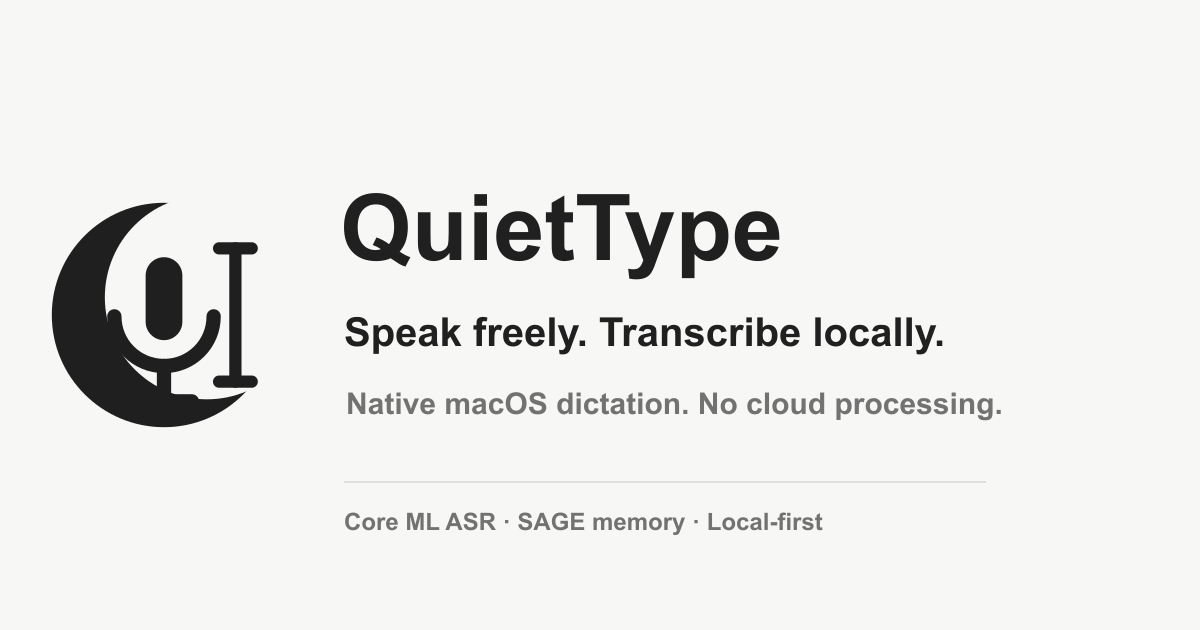
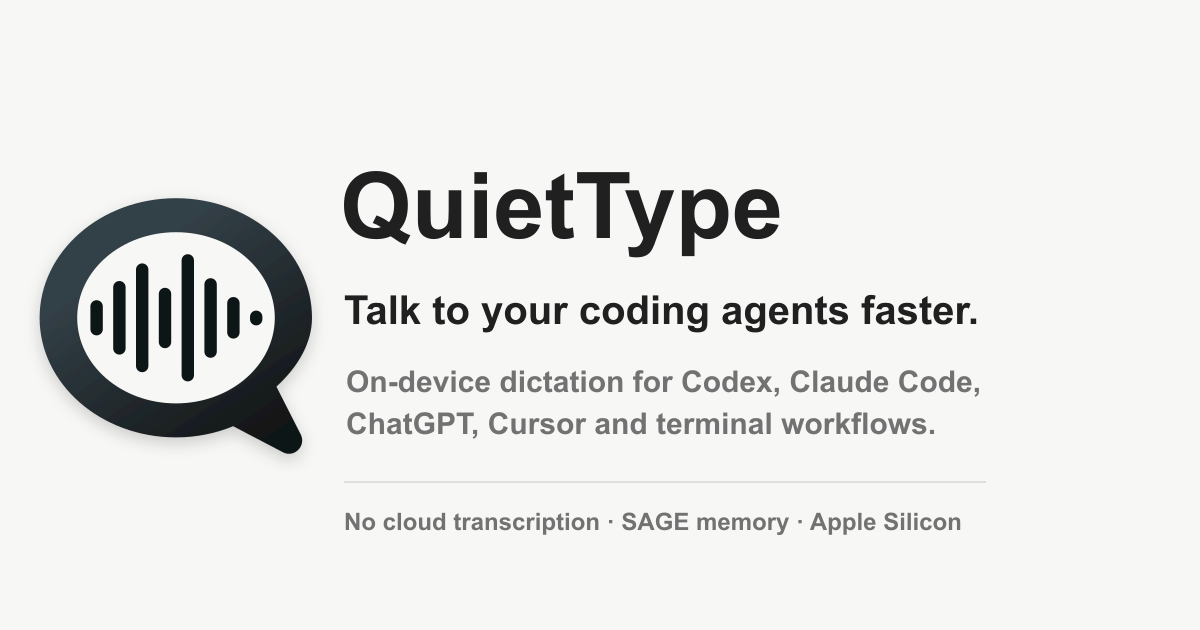
Polish hero rotation and launch assets

Changed region(s): [[0.0308, 0.2714, 0.8325, 0.7238], [0.2775, 0.8143, 0.8017, 0.8444]]

diff --git a/Sources/LocalTypeMac/LocalTypeMacApp.swift b/Sources/LocalTypeMac/LocalTypeMacApp.swift
@@ -331,9 +331,10 @@ struct TesterView: View {
     @State private var showingTeachSheet = false
     @State private var showingRecognizedTerms = false
     @State private var guideStep: QuietTypeGuideStep?
-    @State private var launchHeroMessage = QuietTypeHeroMessage.random()
-    @State private var showLaunchHero = true
+    @State private var launchHeroMessageIndex = QuietTypeHeroMessage.randomIndex()
+    @State private var launchHeroTextVisible = true
     private let permissionTimer = Timer.publish(every: 2, on: .main, in: .common).autoconnect()
+    private let heroMessageTimer = Timer.publish(every: 90, on: .main, in: .common).autoconnect()
 
     var body: some View {
         Group {
@@ -376,7 +377,6 @@ struct TesterView: View {
             if model.setupComplete && firstRunAssistantComplete && !hasSeenGuide {
                 guideStep = .welcome
             }
-            scheduleLaunchHeroDismissal()
         }
         .onChange(of: model.setupComplete) { isComplete in
             if isComplete {
@@ -388,6 +388,9 @@ struct TesterView: View {
                 model.refreshSystemMetrics()
                 await model.refreshPermissions()
             }
+        }
+        .onReceive(heroMessageTimer) { _ in
+            rotateLaunchHeroMessage()
         }
         .onReceive(NotificationCenter.default.publisher(for: NSApplication.didBecomeActiveNotification)) { _ in
             Task {
@@ -404,13 +407,21 @@ struct TesterView: View {
         }
     }
 
-    private func scheduleLaunchHeroDismissal() {
-        guard showLaunchHero else {
+    private var launchHeroMessage: QuietTypeHeroMessage {
+        QuietTypeHeroMessage.message(at: launchHeroMessageIndex)
+    }
+
+    private func rotateLaunchHeroMessage() {
+        guard QuietTypeHeroMessage.all.count > 1 else {
             return
         }
-        DispatchQueue.main.asyncAfter(deadline: .now() + 30) {
-            withAnimation(.easeInOut(duration: 0.65)) {
-                showLaunchHero = false
+        withAnimation(.easeInOut(duration: 0.42)) {
+            launchHeroTextVisible = false
+        }
+        DispatchQueue.main.asyncAfter(deadline: .now() + 0.46) {
+            launchHeroMessageIndex = QuietTypeHeroMessage.nextIndex(after: launchHeroMessageIndex)
+            withAnimation(.easeInOut(duration: 0.48)) {
+                launchHeroTextVisible = true
             }
         }
     }
@@ -900,8 +911,6 @@ struct TesterView: View {
         nativePage {
             VStack(alignment: .leading, spacing: 20) {
                 header
-                    .opacity(showLaunchHero ? 1 : 0)
-                    .accessibilityHidden(!showLaunchHero)
                 if !model.setupComplete {
                     setupNudgePanel
                 }
@@ -1551,10 +1560,15 @@ struct TesterView: View {
             VStack(alignment: .leading, spacing: 4) {
                 Text(launchHeroMessage.title)
                     .font(.system(size: 40, weight: .bold))
+                    .lineLimit(2)
+                    .minimumScaleFactor(0.82)
                 Text(launchHeroMessage.subtitle)
                     .font(.system(size: 20, weight: .medium))
                     .foregroundStyle(.secondary)
             }
+            .id(launchHeroMessage.id)
+            .opacity(launchHeroTextVisible ? 1 : 0)
+            .animation(.easeInOut(duration: 0.48), value: launchHeroTextVisible)
             Spacer()
             VStack(alignment: .trailing, spacing: 8) {
                 HStack(spacing: 6) {
@@ -2608,7 +2622,8 @@ private enum QuietTypeSection: String, CaseIterable, Identifiable {
     }
 }
 
-private struct QuietTypeHeroMessage {
+private struct QuietTypeHeroMessage: Identifiable {
+    var id: String { title }
     var title: String
     var subtitle: String
 
@@ -2636,11 +2651,48 @@ private struct QuietTypeHeroMessage {
         QuietTypeHeroMessage(
             title: "Voice input for secure work.",
             subtitle: "Transcribe, polish, and insert without cloud dictation."
+        ),
+        QuietTypeHeroMessage(
+            title: "Think out loud. Keep it local.",
+            subtitle: "Long agent prompts become clean text on your Mac."
+        ),
+        QuietTypeHeroMessage(
+            title: "More context. Less typing.",
+            subtitle: "Give Codex and Claude the full brief without uploading speech."
+        ),
+        QuietTypeHeroMessage(
+            title: "Your prompt, not their server.",
+            subtitle: "Local transcription for source paths, bugs, names, and plans."
+        ),
+        QuietTypeHeroMessage(
+            title: "Talk like a person. Paste like a pro.",
+            subtitle: "QuietType turns messy speech into usable instructions."
+        ),
+        QuietTypeHeroMessage(
+            title: "Private words for real work.",
+            subtitle: "Built for terminals, editors, agents, notes, and Slack."
         )
     ]
 
-    static func random() -> QuietTypeHeroMessage {
-        all.randomElement() ?? all[0]
+    static func message(at index: Int) -> QuietTypeHeroMessage {
+        guard !all.isEmpty else {
+            return QuietTypeHeroMessage(title: "Speak freely. Transcribe locally.", subtitle: "Nothing leaves your Mac.")
+        }
+        return all[index % all.count]
+    }
+
+    static func randomIndex() -> Int {
+        guard !all.isEmpty else {
+            return 0
+        }
+        return Int.random(in: 0..<all.count)
+    }
+
+    static func nextIndex(after index: Int) -> Int {
+        guard !all.isEmpty else {
+            return 0
+        }
+        return (index + 1) % all.count
     }
 }
 

diff --git a/docs/index.html b/docs/index.html
@@ -10,9 +10,12 @@
   <meta property="og:url" content="https://l33tdawg.github.io/quiettype/">
   <meta property="og:title" content="QuietType - Native macOS dictation for agents.">
   <meta property="og:description" content="Fast on-device transcription for Codex, Claude Code, ChatGPT, terminals, editors and docs. No cloud processing. SAGE governed memory.">
-  <meta property="og:image" content="https://l33tdawg.github.io/quiettype/og.png">
+  <meta property="og:image" content="https://l33tdawg.github.io/quiettype/og.png?v=1.0.0-beta.1">
   <meta property="og:type" content="website">
   <meta name="twitter:card" content="summary_large_image">
+  <meta name="twitter:title" content="QuietType - Native macOS dictation for agents.">
+  <meta name="twitter:description" content="Fast on-device transcription for Codex, Claude Code, ChatGPT, terminals, editors and docs. No cloud processing. SAGE governed memory.">
+  <meta name="twitter:image" content="https://l33tdawg.github.io/quiettype/og.png?v=1.0.0-beta.1">
   <meta name="theme-color" content="#f6f6f3">
   <link rel="icon" href="./icon.svg?v=1.0.0-beta.1" type="image/svg+xml">
   <script data-goatcounter="https://quiettype.goatcounter.com/count" async src="https://gc.zgo.at/count.js"></script>
@@ -677,7 +680,7 @@
         <a href="#privacy">Privacy</a>
         <a href="#sage">SAGE</a>
         <a href="#screenshots">Screenshots</a>
-        <a class="button" href="https://github.com/l33tdawg/quiettype/releases/download/v1.0.0-beta.1/QuietType-1.0.0-beta.1-macOS-arm64.dmg">Download</a>
+        <a class="button primary" href="https://github.com/l33tdawg/quiettype/releases/download/v1.0.0-beta.1/QuietType-1.0.0-beta.1-macOS-arm64.dmg">Download</a>
       </nav>
     </div>
   </header>
@@ -861,7 +864,7 @@
           <h2>Public beta now available.</h2>
           <p>QuietType 1.0.0 beta 1 is signed, notarized and ready for Apple Silicon Macs. Download the DMG from GitHub, drag QuietType into Applications and start local dictation.</p>
           <div class="download-metrics" aria-label="GitHub release download metrics">
-            <img src="https://img.shields.io/github/downloads/l33tdawg/quiettype/total?style=flat-square&label=GitHub%20downloads&color=111111" alt="Total GitHub release downloads">
+            <img src="https://img.shields.io/github/downloads/l33tdawg/quiettype/v1.0.0-beta.1/QuietType-1.0.0-beta.1-macOS-arm64.dmg?style=flat-square&label=DMG%20downloads&color=111111" alt="QuietType DMG download count">
             <a href="https://github.com/l33tdawg/quiettype/releases">View releases</a>
           </div>
         </div>